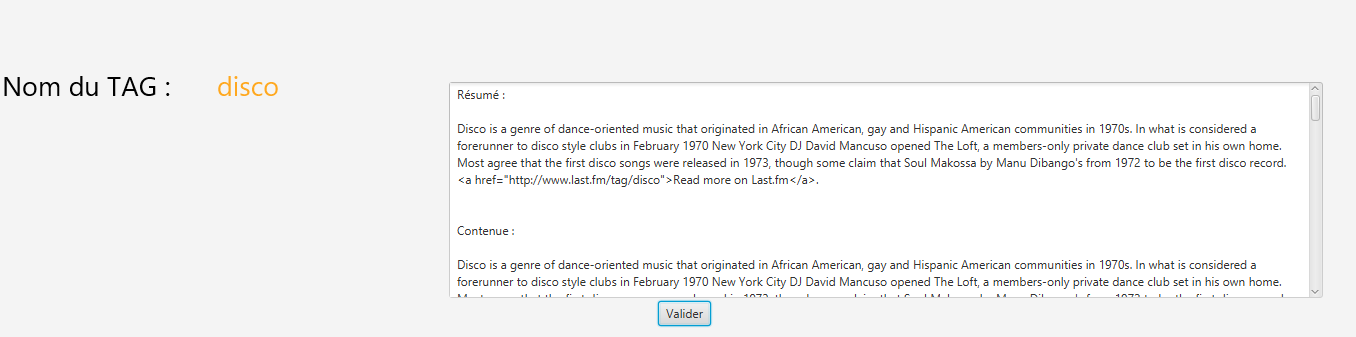
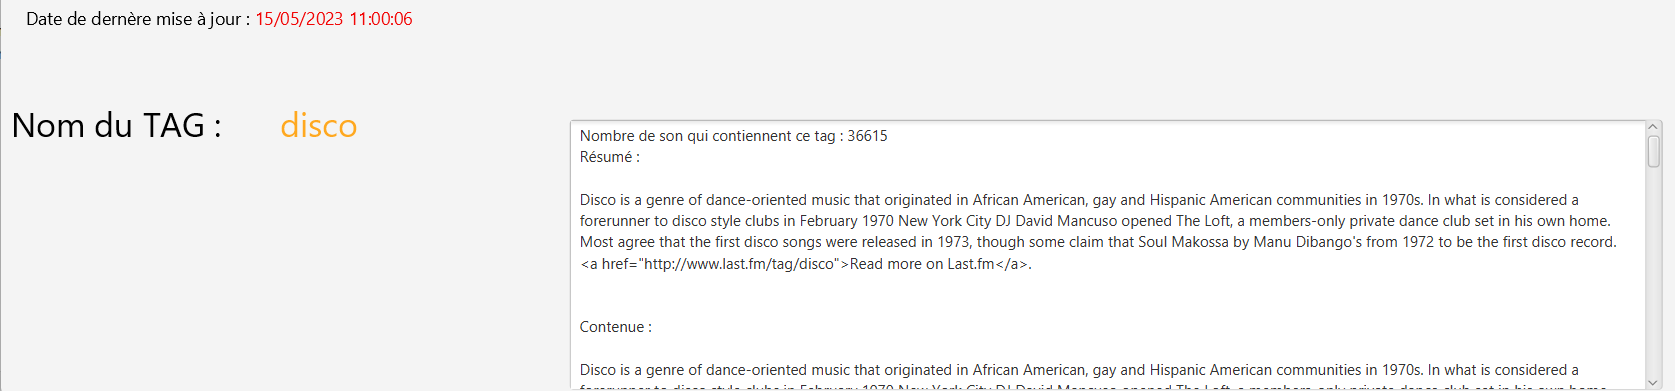
avancement rapport

diff --git a/applastfm/src/main/java/fr/ul/miage/structu/applastfm/AppLastFMController.java b/applastfm/src/main/java/fr/ul/miage/structu/applastfm/AppLastFMController.java
@@ -525,8 +525,6 @@ public class AppLastFMController {
 					if (choixtop == "global") {
 						info = "Top global : \n\n";
 					}else info = "Top " +nomPays.getValue().toString() + " : \n\n ";
-					info = info +"Playcount : " + (Integer) resRequest4.get(4)+"\n";
-					info = info +"Listners : " + (Integer) resRequest4.get(5)+"\n";
 					info = info +"Date : " + (String) resRequest4.get(6)+"\n";
 					infoTop10.setText(info);
 					

diff --git a/applastfm/Rapport Projet Structuration de Documents.md b/applastfm/Rapport Projet Structuration de Documents.md
@@ -1,4 +1,4 @@
-# Collecte de statistiques et de recommandation de musique
+	# Collecte de statistiques et de recommandation de musique
 
 Ce projet a été réalisé par MANUELLI Théo et SAINT-DIZIER Corentin.
 
@@ -80,6 +80,44 @@ Dans la suite de cette partie nous alons detailer comment fonctionne l'interface
 
 ### 2.2.1 - Information sur un tag : 
 
-															![[2.2.1InfoTag1.png]]
+												![[2.2.1InfoTag1.png]]
 Dans cette partie l'utilisateur souhaite connaitre des informations sur un style musicale. La première chose qu'il doit faire c'est de renseigner le nom du style. Par la suite il doit choisir entrre avoir le résumé ou l'ensemble du contenue concernant ce style. Par defaut s'il ne coche rien, l'application lui affichera les deux. Voici comment l'application affiche le résulatat de cette fonctionnalité : 
 ![[2.2.1InfoTag2.png]]
+On peut constater qu'une information sur la date du dernier enregistrement dans la base de données est aussi renseigné. 
+
+### 2.2.2 - Information sur un album : 
+
+											![[2.2.2InfoAlbum1.png]]
+
+Dans cette partie l'utilisateur souhaite avoir des informations sur un album. Pour cela il doit renseigner le nom de l'album ainsi que le nom de l'artiste. Une fois ses choix fait il appuyer sur le boutton "Valider". Le resultat est le suivant : 
+![[2.2.2InfoAlbum2.png]]
+On peut observer que les informations renseigné à l'utilisateur sont donc le nom de l'album, le nom de l'artiste, la date de derniere modification dans la base de données, le nombre de morceaux contenue dans l'album, sa durée totale en seconde, son nombre d'écoute et pour finir la liste des musique qui composent l'album. 
+
+### 2.2.3 - Information sur une musique  : 
+
+									![[2.2.3InfoTrack1.png]]
+Ici l'utilisateur souhaite connaitre des informations sur une musique. Pour cela il doit donc renseigner le nom de la musique et le nom de l'artiste. Dans cette exemple nous prendrons donc le titre "Holiday" du groupe Green Day.
+Le résultat retourné par l'application est le suivant :
+![[2.2.3InfoTrack2.png]]
+Les informations affichées à l'utilisateur sont donc les nom de l'artiste, le nom de la musique, le nombre d'écoute, le nombre d'utilisateur écoutant la musique, la date de dernière modification en base et pour finir la liste des styles musicaux auquelle appartient la musique. 
+
+### 2.2.4 - Information sur les TOPs 10  : 
+Cette fonctionnalitée permets de donner des renseignements sur les différents TOPs 10. L'utiilisateur à plusieur possibilitées : 
+* Avoir les informations sur les TOPs 10 global, c'est à dire TOPS 10 monde. 
+* Avoir les informations sur les TOPs 10 spécifiquement par pays. 
+
+Pour le premier choix, l'utilisateur doit simplement coché la case attribué :
+
+									![[2.2.4InfoTop1.png]]
+
+Pour le second choix, l'utilisateur peut choisir le nom du pay dans la liste déroulante comme ceci : 
+										![[2.2.4InfoTop2.png]]
+
+Une fois cette partie renseigner, l'utilisateur valide ses choix et l'application retourne : 
+* Pour le TOP 10 globale : 
+![[2.2.4InfoTOP3.png]]
+* Pour le TOP 10 par pay avec l'exemple des Etats Unis :
+ ![[2.2.4InfoTOP4.png]]
+L'utilisateur à donc accès au top 10 des musiques, des styles musicaux et des artistes ainsi que la date de requettage. 
+
+### 2.2.4 - Information sur les musiques et albums similaires  : 
